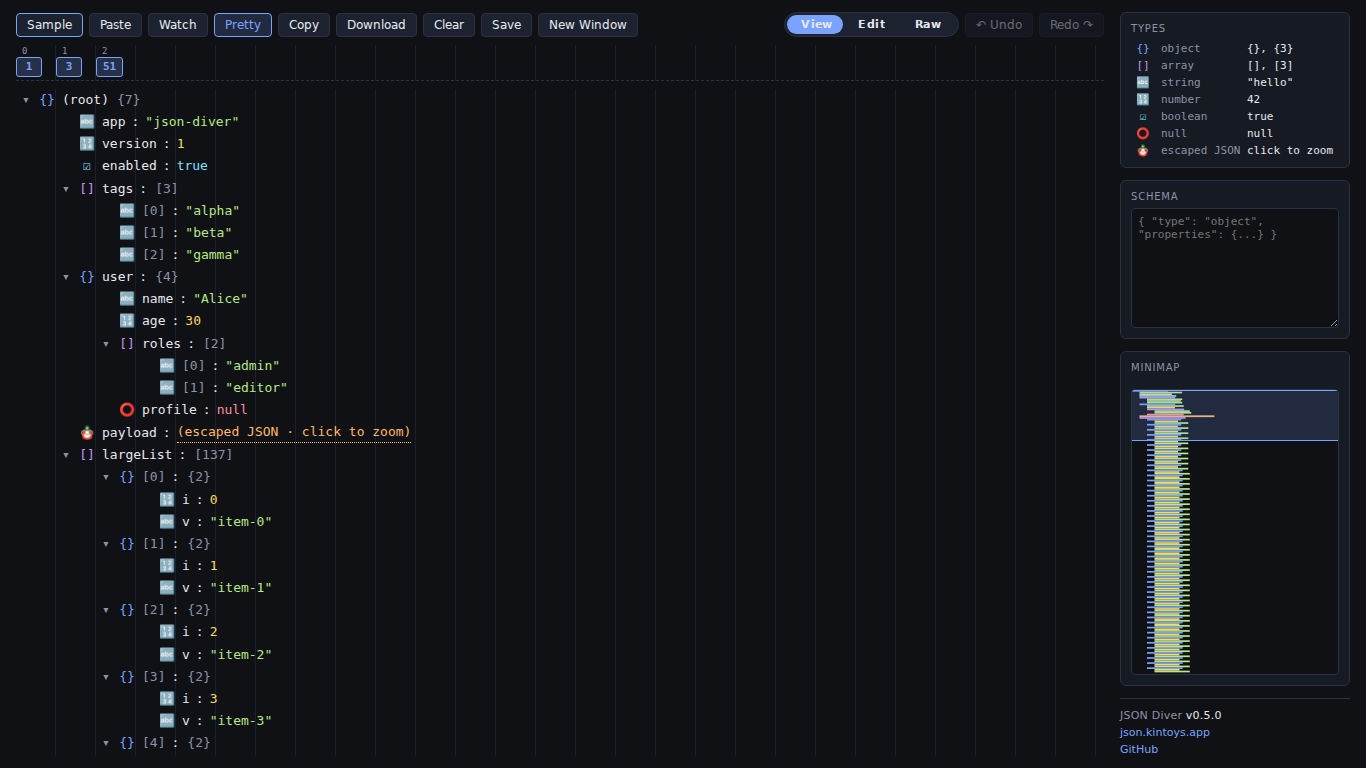
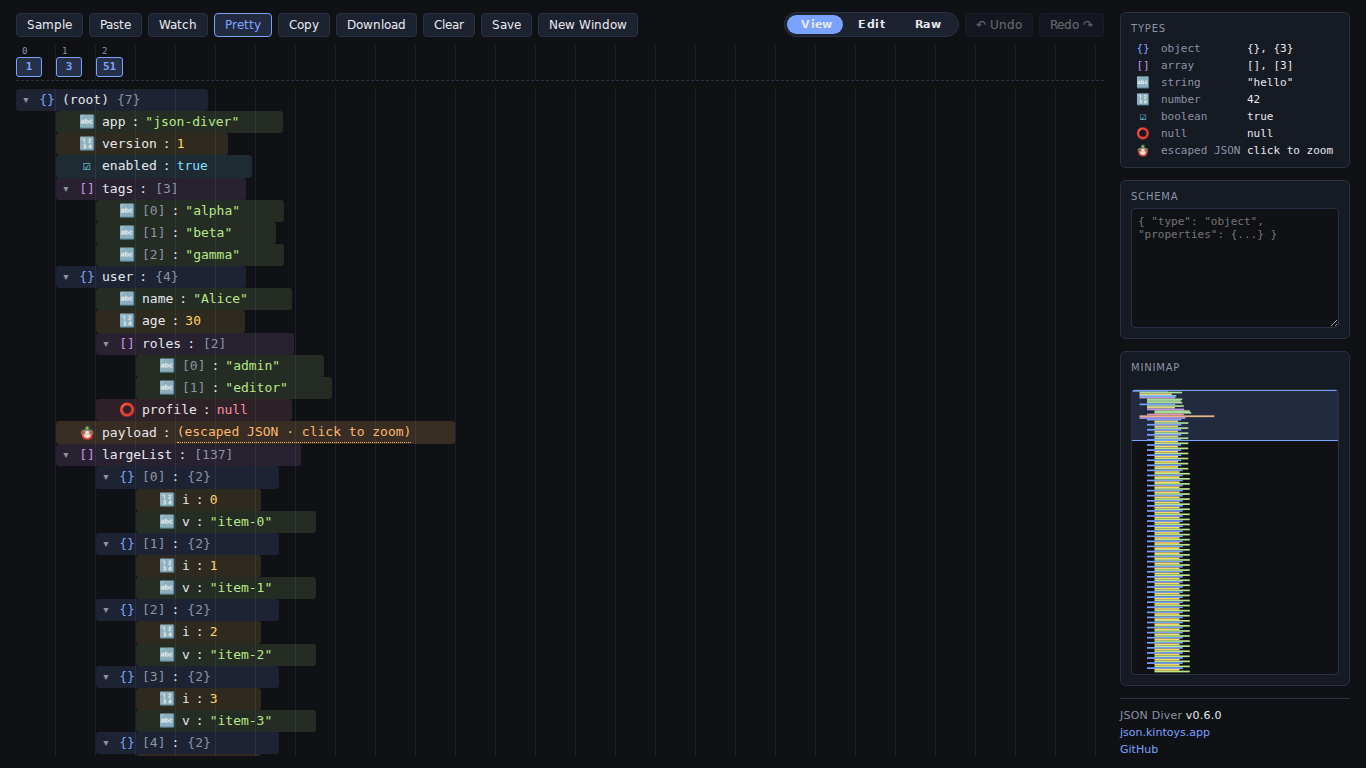
docs(store): スクリーンショットを v0.6.0 で撮り直し、登録情報を更新
- 既存 5 枚を本番 (v0.6.0) から再撮影。行の型色ハイライトとバージョン表示が
  最新になった。撮影前にポインタを退避させ、ツールチップの写り込みを防止
- 05-insert-from-clipboard.png を追加（+ ボタンのポップアップ。前/中/後ろの
  選択とキー入力が見える）。raw モードは 06 に繰り下げ
- 日本語・英語の登録情報に、クリップボードからのノード挿入を追記。
  機能一覧は上限 20 項目なので、スキーマ検証とドラッグ移動のブロックを
  1 項目に統合して枠を作った

Claude-Session: https://claude.ai/code/session_01SVssBrZETX7UxQiRKb8Lag

Changed region(s): [[0.0, 0.0938, 0.3382, 1.0]]

diff --git a/store/listing-ja.md b/store/listing-ja.md
@@ -52,6 +52,12 @@ JSON を階層ツリーとして描画するので、構造は「括弧を数え
   別のノードの前・中・後ろへ移動
 - **Raw** — 生の JSON テキスト。手で打ったほうが速いときのために
 
+編集は文書をまたげます。どこかで JSON をコピーし（別ウィンドウのノードでも、
+チャットに貼られた断片でも）、入れたい行の **+** を押して、前・中・後ろのどこへ
+入れるかを選ぶだけです。オブジェクトへの挿入ではキーを尋ね、挿入されたノードは
+ハイライトされるのでどこに入ったか一目で分かります。スキーマを読み込んでいる
+場合、違反を増やす挿入は適用前に拒否されます。
+
 どのモードで加えた変更も Ctrl+Z で取り消せます。
 
 **JSON Schema で検証**
@@ -109,8 +115,8 @@ https://github.com/motohasystem/json-diver
 10. あらゆる編集に対する取り消し・やり直し（Ctrl+Z / Ctrl+Shift+Z）
 11. Raw モードで JSON をテキストとして直接編集
 12. Pretty トグル。2 スペース整形と 1 行圧縮を全体に一括適用
-13. JSON Schema による逐次検証。違反箇所をツリー上でハイライト
-14. スキーマ違反が増えるドラッグ移動を事前にブロック
+13. JSON Schema による逐次検証。違反箇所をハイライトし、違反が増える編集は拒否
+14. クリップボードの JSON を、任意の行の前・中・後ろにノードとして挿入
 15. クリップボード監視。どのアプリでコピーした JSON も自動で読み込み
 16. ファイルの種類を関連付ければ `.json` をダブルクリックで起動
 17. Ctrl+S で元ファイルへ UTF-8 / BOM なしで上書き保存

diff --git a/store/listing-en.md b/store/listing-en.md
@@ -53,6 +53,12 @@ Three modes, one switch:
   node before, inside or after another one
 - **Raw** — the JSON as text, for when it is simply faster to type
 
+Editing also reaches across documents. Copy JSON anywhere — a node from another
+window, a fragment from a chat message — press **+** on the row you want it next to,
+and choose whether it goes before, inside or after. Inserting into an object asks for
+a key, the new node is highlighted so you can see where it landed, and anything that
+would break a loaded schema is refused before it is applied.
+
 Everything is undoable with Ctrl+Z, whichever mode you made the change in.
 
 **Validate against a JSON Schema**
@@ -110,8 +116,9 @@ https://github.com/motohasystem/json-diver
 10. Undo and redo across every kind of edit (Ctrl+Z / Ctrl+Shift+Z)
 11. Raw mode for editing the JSON directly as text
 12. Pretty toggle: 2-space indentation or minified to one line, everywhere at once
-13. Validates against a JSON Schema as you type, highlighting violations in the tree
-14. Blocks drag-and-drop moves that would introduce new schema violations
+13. Validates against a JSON Schema as you type, highlighting violations in the tree,
+    and refuses edits that would introduce new ones
+14. Inserts JSON from the clipboard as a new node, before, inside or after any row
 15. Clipboard watch: JSON copied in any application is loaded automatically
 16. Opens `.json` files on double-click once the file type is associated
 17. Ctrl+S saves back over the original file as UTF-8 without a BOM

diff --git a/store/README.md b/store/README.md
@@ -22,9 +22,10 @@ build serves both, only the listing text differs.
 | `02-depth-overview.png` | Collapsed to depth 2 — the whole document at a glance |
 | `03-escaped-json-zoom.png` | Escaped JSON zoomed into its own window, with a further escaped value inside |
 | `04-schema-validation.png` | JSON Schema validation: violating rows highlighted, ⚠ 3 badge in the toolbar |
-| `05-raw-mode.png` | Raw mode — the JSON as editable text |
+| `05-insert-from-clipboard.png` | Inserting a node from the clipboard: the popup with its before/inside/after choice |
+| `06-raw-mode.png` | Raw mode — the JSON as editable text |
 
-All five are 1366×768 PNG, above the Store's minimum for PC screenshots.
+All six are 1366×768 PNG, above the Store's minimum for PC screenshots.
 
 **How they were produced, and what to check.** They were captured from the shipping
 app at <https://json.kintoys.app> with the desktop shell's DOM applied — the topbar
@@ -34,7 +35,7 @@ captures of the installed `.msix`. If you would rather ship literal desktop capt
 take them from the installed app at 1366×768 or larger and replace the files; the
 listing text does not depend on them.
 
-The version badge in the sidebar reads `v0.5.0`. Re-capture when that number changes
+The version badge in the sidebar reads `v0.6.0`. Re-capture when that number changes
 so the screenshots do not advertise an older build:
 
 ```bash
